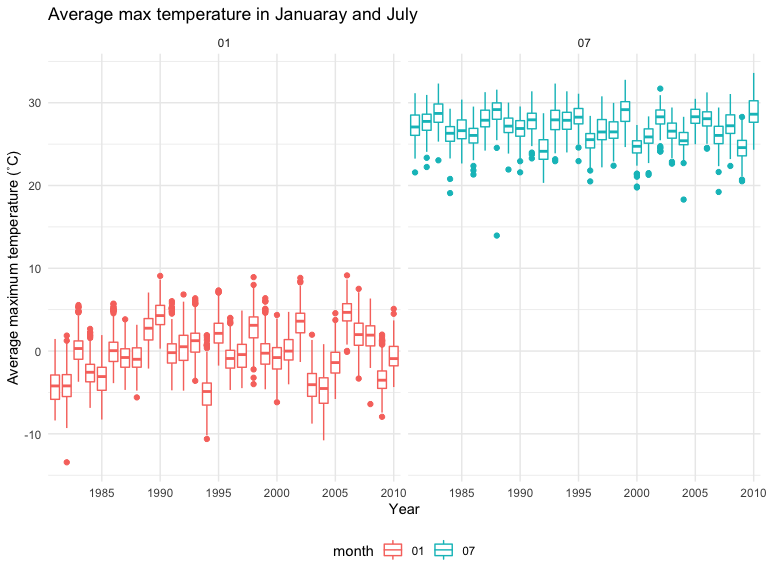
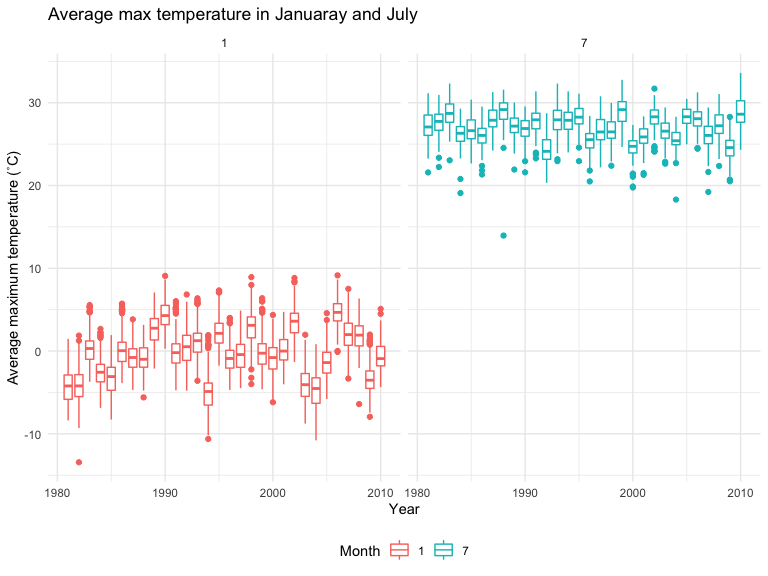
Change the data type of year, month and day to numeric, so that ggplot will automatically set breaks.

diff --git a/p8105_hw3_hs3393.md b/p8105_hw3_hs3393.md
@@ -276,7 +276,7 @@ than 25% data is NA, that’s a severe problem.
 ``` r
 datany <- ny_noaa %>% 
   separate(date, into = c("year", "month", "day"), sep = "-", remove = T) %>% 
-  mutate_at(c("tmax", "tmin"), as.numeric) %>% 
+  mutate_at(c("year", "month", "day", "tmax", "tmin"), as.numeric) %>% 
   mutate(tmax = tmax / 10,
          tmin = tmin / 10,
          prcp = prcp / 10)
@@ -297,7 +297,7 @@ year, it will not snow (except winter),
 
 ``` r
 data1_7 <- datany %>% 
-  filter(month == "01" | month == "07") %>% 
+  filter(month == "1" | month == "7") %>% 
   group_by(id, year ,month) %>% 
   summarize(ave_max = mean(tmax))
 ```
@@ -307,28 +307,27 @@ data1_7 <- datany %>%
 
 ``` r
 data1_7 %>% 
-  ggplot(aes(x = year, y = ave_max, color = month)) +
+  ggplot(aes(x = year, group = year, y = ave_max, color = as.factor(month))) +
   geom_boxplot() +
-  facet_grid(. ~ month) + 
+  facet_grid(. ~ as.factor(month)) + 
   labs(x = "Year",
        y = "Average maximum temperature (˚C)", 
-    title = "Average max temperature in Januaray and July") + 
-  scale_x_discrete(breaks = c("1985", "1990", "1995", 
-    "2000", "2005", "2010"))
+       title = "Average max temperature in Januaray and July",
+       color = "Month") 
 ```
 
 <img src="p8105_hw3_hs3393_files/figure-gfm/unnamed-chunk-10-1.png" width="90%" />
 
 ``` r
 data1_7 %>% 
-  ggplot(aes(x = year, y = ave_max, group = id,color = month)) +
+  ggplot(aes(x = year, y = ave_max, group = id,color = as.factor(month))) +
   geom_line(alpha = .4) +
   facet_grid(. ~ month) + 
   labs(x = "Year",
        y = "Average maximum temperature (˚C)", 
-    title = "Average max temperature in Januaray and July") + 
-  scale_x_discrete(breaks = c("1985", "1990", "1995", 
-    "2000", "2005", "2010"))
+      title = "Average max temperature in Januaray and July",
+      color = "Month") +
+   guides(fill=guide_legend(title="Month"))
 ```
 
 <img src="p8105_hw3_hs3393_files/figure-gfm/unnamed-chunk-10-2.png" width="90%" />
@@ -354,13 +353,11 @@ p_minmax = datany %>%
 
 p_snow = datany %>% 
   filter(snow > 0 & snow < 100) %>% 
-  ggplot(aes(x = year, y = snow)) +
+  ggplot(aes(x = year, y = snow, group = year)) +
   geom_boxplot() + 
   labs(x = "Year", 
        y = "Snow Fall (mm)",
-       title = "Snowfall in each year") +
-  scale_x_discrete(breaks = c("1981","1985", "1990", "1995", 
-    "2000", "2005", "2010"))
+       title = "Snowfall in each year") 
   
 p_merge = p_minmax + p_snow
 
